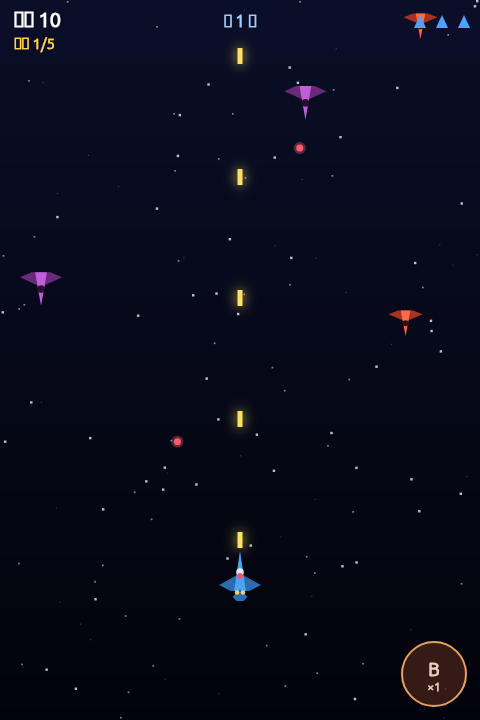
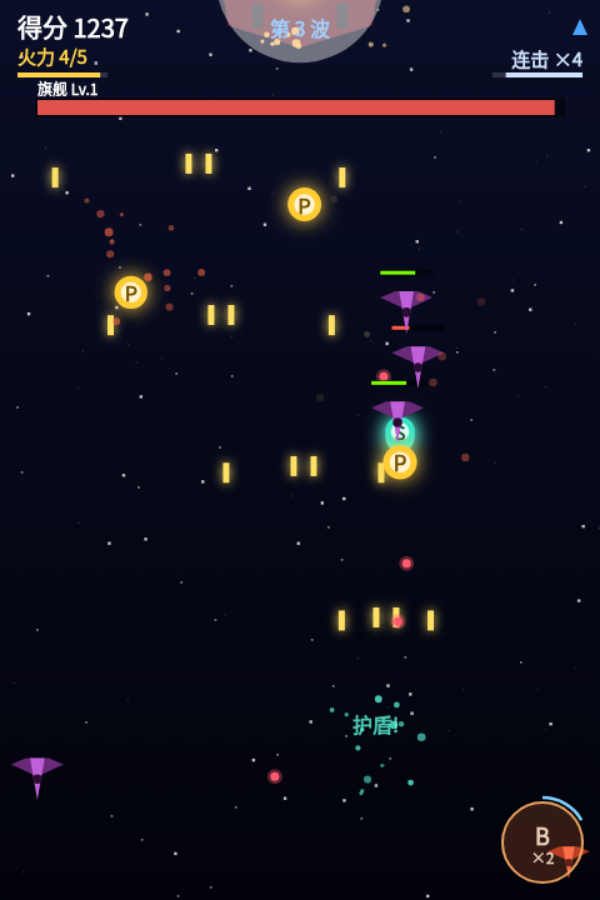
README 双人版链接改为 github.io 绝对地址；更新游戏截图
- 在线试玩双人版入口从相对路径改为 https://gyb.github.io/airplane/two-player/（中英两版同步）
- 截图重拍：新图包含旗舰 Boss 血条、编队、P 道具、护盾、连击 HUD 等新系统要素

diff --git a/README.en.md b/README.en.md
@@ -6,13 +6,13 @@ A vertical-scrolling shoot-'em-up built from scratch with **HTML5 Canvas + vanil
 
 ![Screenshot](docs/screenshot.png)
 
-🎮 **Play online:** <https://gyb.github.io/airplane/> · [Two-player (desktop only)](two-player/)
+🎮 **Play online:** <https://gyb.github.io/airplane/> · [Two-player (desktop only)](https://gyb.github.io/airplane/two-player/)
 
 ---
 
 ## 👥 Two-Player Mode (desktop only)
 
-[Play online](two-player/) · open `two-player/index.html` locally
+[Play online](https://gyb.github.io/airplane/two-player/) · open `two-player/index.html` locally
 
 A two-player co-op fork of the single-player game (`two-player/game.js` is an independent copy — the single-player version is untouched):
 

diff --git a/README.md b/README.md
@@ -6,13 +6,13 @@
 
 ![游戏截图](docs/screenshot.png)
 
-🎮 在线试玩：<https://gyb.github.io/airplane/> · [双人版（仅电脑）](two-player/)
+🎮 在线试玩：<https://gyb.github.io/airplane/> · [双人版（仅电脑）](https://gyb.github.io/airplane/two-player/)
 
 ---
 
 ## 👥 双人版（仅电脑）
 
-[在线试玩](two-player/) · 本地打开 `two-player/index.html`
+[在线试玩](https://gyb.github.io/airplane/two-player/) · 本地打开 `two-player/index.html`
 
 在单人版基础上 fork 的双人合作变体（`two-player/game.js` 独立副本，与单人版互不影响）：
 
